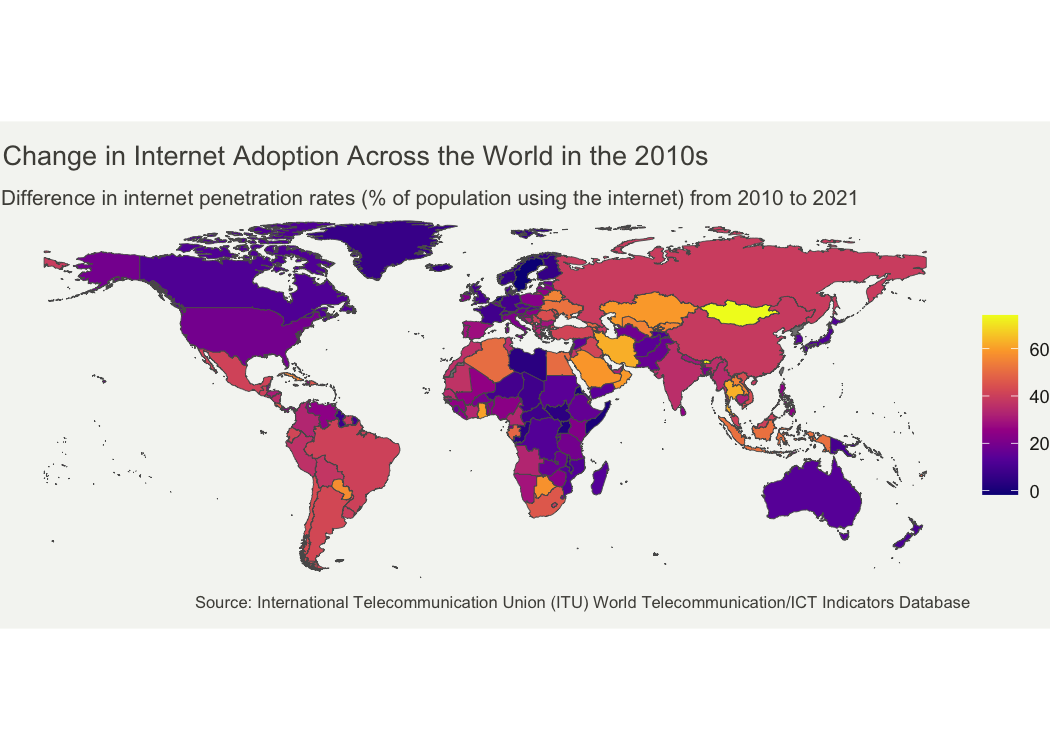
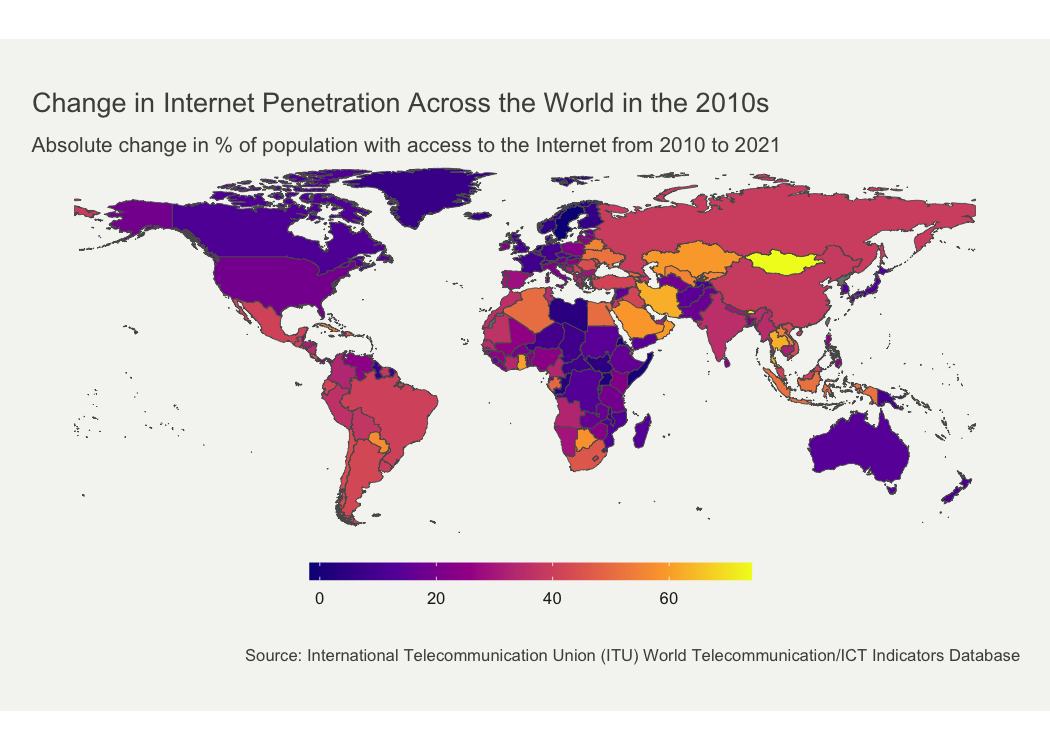
finished report map 1

diff --git a/Cloropleth Maps/README.md b/Cloropleth Maps/README.md
@@ -55,12 +55,19 @@ internet_data <- internet_data %>%
   ungroup() %>%
   filter(date == min_year | date == max_year)
 
-#then: compute the difference between oldest and newest values
+#then: compute the % difference between oldest and newest values
 final_internet_data <- internet_data %>%
   group_by(iso3c) %>%
   arrange(date, .by_group = TRUE) %>%
-  mutate(diff_users = IT.NET.USER.ZS - lag(IT.NET.USER.ZS, default = first(IT.NET.USER.ZS)))%>%
-  filter(diff_users != 0)
+  mutate(
+    #percent change
+    diff_users_pct = (IT.NET.USER.ZS - lag(IT.NET.USER.ZS, default = first(IT.NET.USER.ZS))) /
+           lag(IT.NET.USER.ZS, default = 1)*100, 
+    #absolute change
+    diff_users_abs = IT.NET.USER.ZS - lag(IT.NET.USER.ZS, default = first(IT.NET.USER.ZS)),
+    #rate change
+    diff_users_x = IT.NET.USER.ZS / lag(IT.NET.USER.ZS, default = first(IT.NET.USER.ZS))) %>%
+  filter(diff_users_abs != 0)
 
 
 #now join the geography dataset & the internet users data
@@ -75,12 +82,13 @@ Now on to the mapping!
 <summary>Code</summary>
 
 ``` r
-it_users_map <- ggplot(users_world_df, aes(fill = diff_users)) +
+it_users_map <- ggplot(users_world_df, aes(fill = diff_users_abs)) +
   geom_sf() +
 
   theme_void()+
   #more adjustements
-  theme(text = element_text(color = "#22211d"), 
+  theme(text = element_text(color = "#22211d"),
+        plot.margin = margin(0.5, 0.5, 0.5, 0.5, "cm"),
         plot.background = element_rect(fill = "#f5f5f2", color = NA), 
         panel.background = element_rect(fill = "#f5f5f2", color = NA), 
         legend.background = element_rect(fill = "#f5f5f2", color = NA),
@@ -90,12 +98,15 @@ it_users_map <- ggplot(users_world_df, aes(fill = diff_users)) +
         plot.subtitle = element_text(size= 10, hjust=0.01, color = "#4e4d47",
                                 margin = margin(b = -0.1, t = 0.43, l = 2, unit = "cm")),
         plot.caption = element_text( size=8, color = "#4e4d47", 
-                                 margin = margin(b = 0.3, r=-99, unit = "cm")),
-        legend.position = "right")+
+                                 margin = margin(t = 0.7, b = 0.3, r=-99, unit = "cm")),
+        legend.position = "bottom",
+        legend.text = element_text(size = 8),
+        legend.key.height= unit(0.3, 'cm'),
+        legend.key.width= unit(1.5, 'cm'))+
   
   scale_fill_viridis_c(option = "plasma")+
-  labs(title = "Change in Internet Adoption Across the World in the 2010s",
-       subtitle = "Difference in internet penetration rates (% of population using the internet) from 2010 to 2021",
+  labs(title = "Change in Internet Penetration Across the World in the 2010s",
+       subtitle = "Absolute change in % of population with access to the Internet from 2010 to 2021",
     fill = NULL,
     caption = paste("Source:", indicator_info$source_org))
 
@@ -106,9 +117,51 @@ it_users_map
 
 ![](assignment_4_files/figure-commonmark/unnamed-chunk-3-1.png)
 
-Describe the patterns in your map. What story are you communicating with
-your map? Does the map effectively communicate your story? Why or why
-not?
+This first map displays changes in Internet penetration rates throughout
+the world in the 2010s. It uses a sequential, gradient color scheme,
+where warmer colors are associated with bigger changes.
+
+The first choice was to represent change of Internet penetration instead
+of the current or past penetration rate itself. Here, the map does not
+display the amount of people having access to the Internet in each
+country, but the development of said access over a period of time.
+Developed countries that already had widespread access to the Internet
+in 2010, mostly in Europe, North America and Australia are therefore
+associated with smaller changes.
+
+This map shows the major increase in Internet penetration that has
+occurred in South and Central America in the 2010s, with increases of
+more than 30 percentage points. Many countries in South-East Asia,
+Central Asia, and the Middle East have experienced similar increases,
+with some exceptions. And while some African countries did undergo
+significant increases in penetration rates, especially in the North and
+South, the continent still lags behind in terms of the development of
+its Internet infrastructure.
+
+The choice of how to represent change is very important too. The choice
+made here is to use the absolute change in penetration rate. This
+measure favours countries that developed access to the Internet to a
+large number of their population over the period of time studied.
+Another option was to map the growth rate, that is the percentage of
+increase for each country over the time period studied. Doing so would
+have given very different results, especially for countries with low
+penetration rates.
+
+For example, Angola went from a penetration rate of around 3% to 36%.
+This represents a growth of more than 1,000%! The country multiplied its
+access to the Internet by 12, but this corresponds to an absolute
+increase of only 33 percentage points. In contrast, Brazil jumped from
+41% to 81%, an absolute increase of 40 percentage points, while it only
+doubled its access to the Internet with a growth of 100% over the ten
+years.
+
+Therefore, a map representing relative growth of Internet penetration
+rates would have looked very different, and told a very different story
+than the one displayed in this report. I would use growth rates, most
+likely with a log scale, if I were to map the same variable on the scale
+of a single continent; it would allows to better compare the development
+efforts of nations that share similar characteristics and penetration
+rates.
 
 ## Map 2: Tourism in Europe
 
